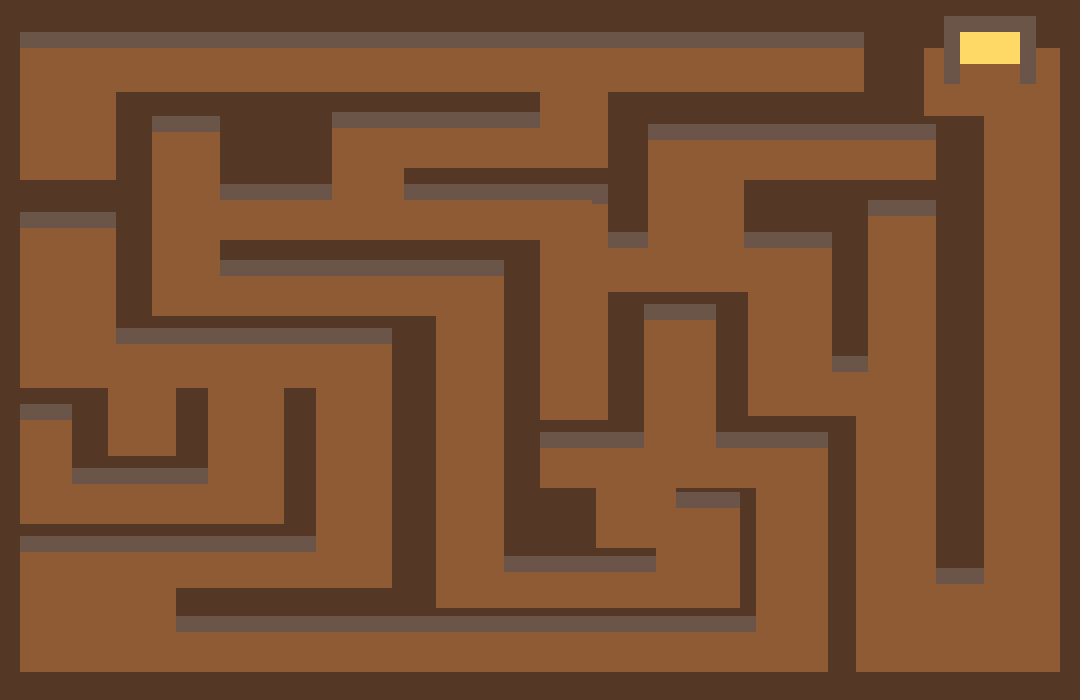
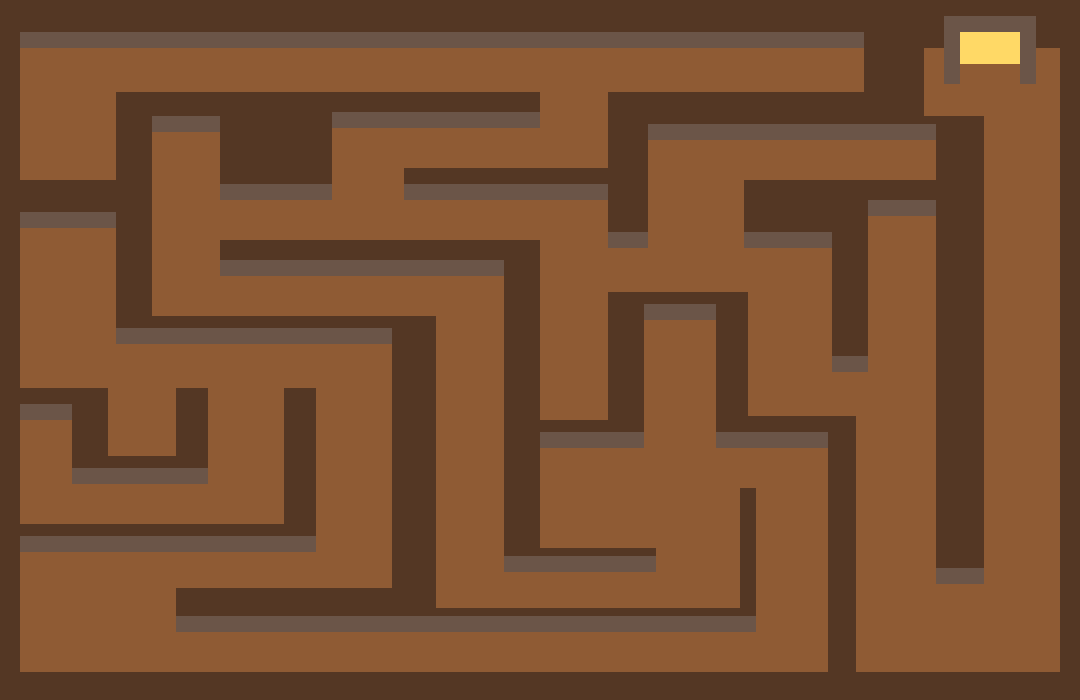
Add more interactables
Added:
- Big red button interactable
- Dial interactable

Changed region(s): [[0.4889, 0.69, 0.55, 0.78], [0.6111, 0.69, 0.7028, 0.75]]

diff --git a/game.py b/game.py
@@ -31,7 +31,7 @@ class Game:
         self.player = character.Player('turtle2')
         self.npc = character.NPC('turtle')
 
-        self.lever = interactables.Interactable('lever')
+        self.lever = interactables.Interactable('dial')
 
     def intro(self):
         #pygame.mixer.music.load('Media/music/Theme_Fast.mp3')
@@ -96,7 +96,7 @@ class Game:
             self.player.move(pygame.key.get_pressed())
             self.update()
             # This line is for debugging boundaries
-            self.room.draw_objects(self.screen)
+            #self.room.draw_objects(self.screen)
             pygame.display.flip()
             self.screen.fill((0, 0, 0))
 
